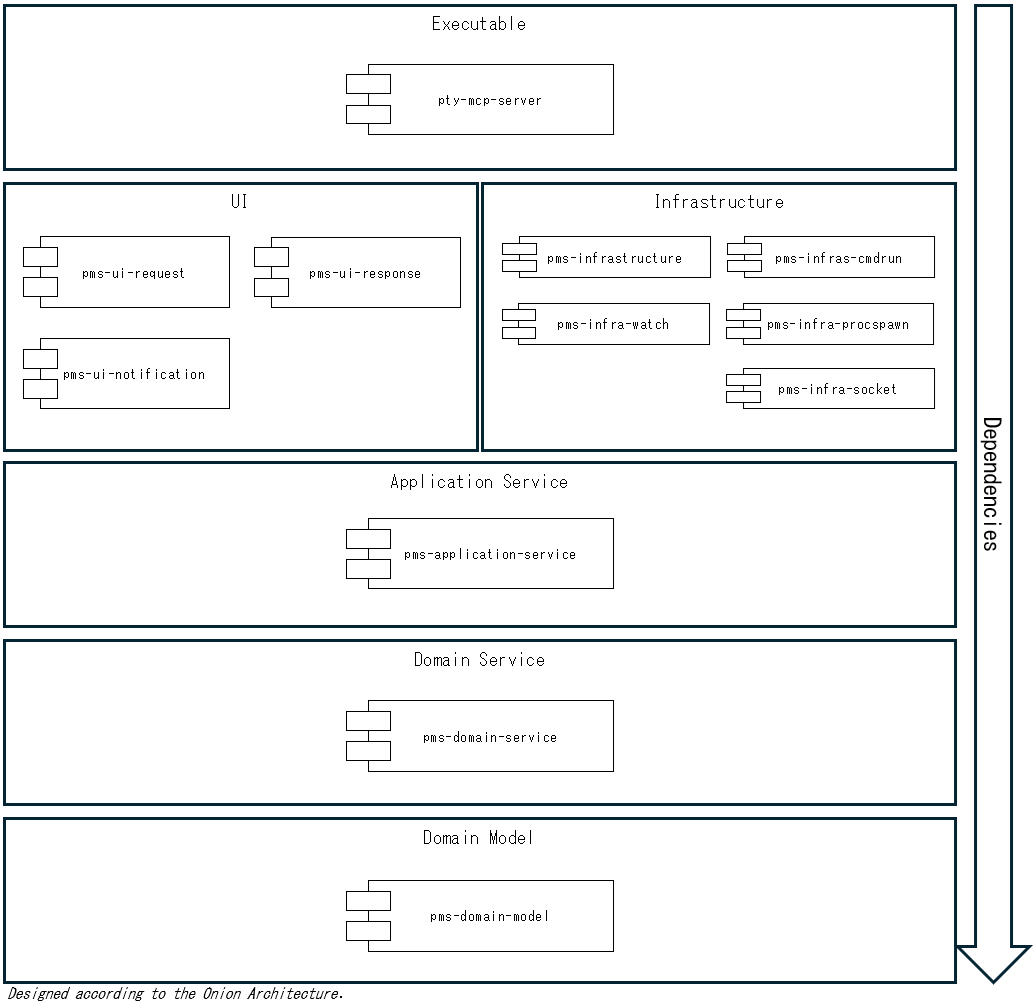
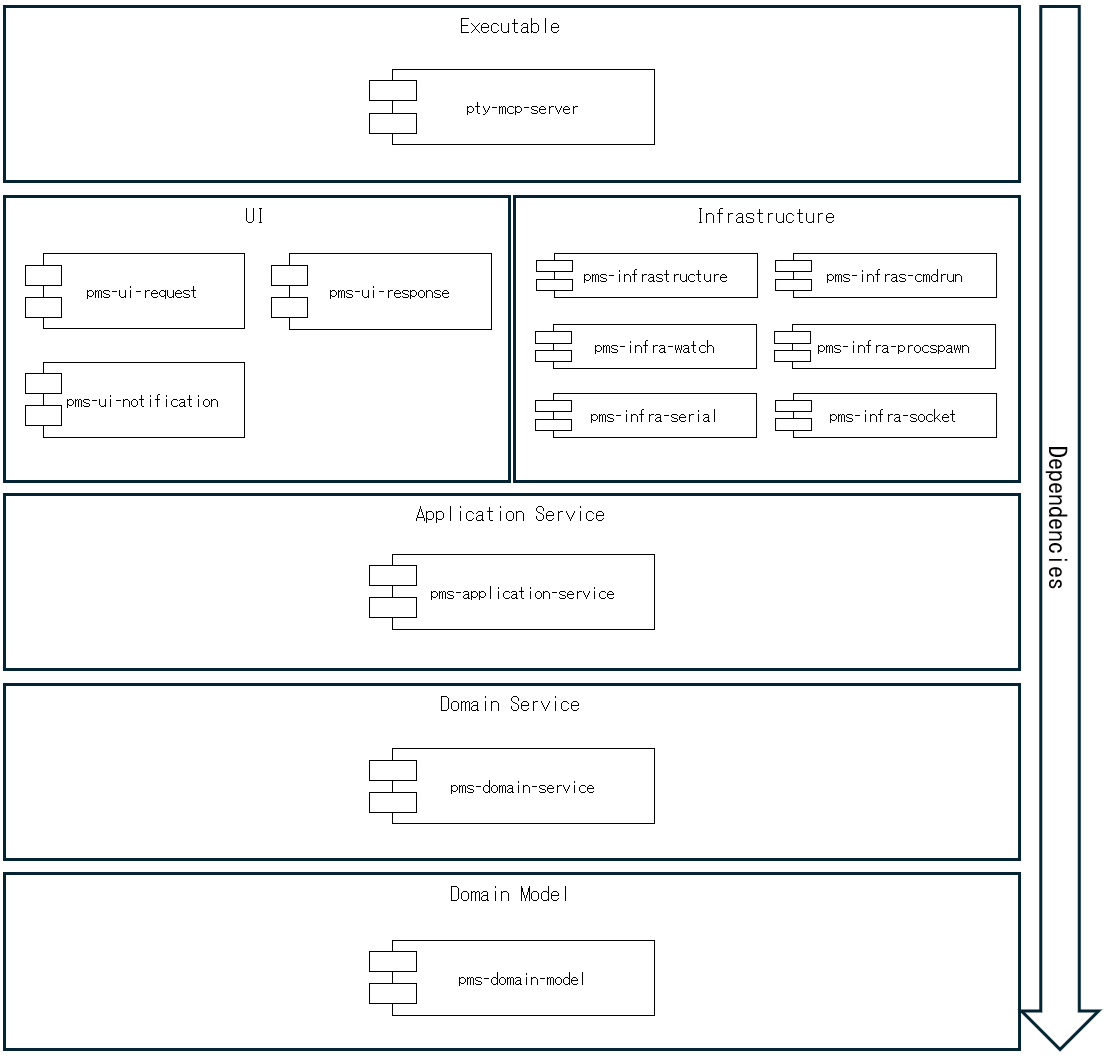
added serial tool.

diff --git a/README.md b/README.md
@@ -117,6 +117,23 @@ The server communicates exclusively via **standard input/output (stdio)**, ensur
 - **`socket-telnet`**  
   A simple Telnet-like communication tool over raw TCP sockets. This tool connects to a specified host and port, sends and receives data, and removes any Telnet IAC (Interpret As Command) sequences from the communication stream. Note: This is a simplified Telnet implementation and does not support full Telnet protocol features.
 
+
+- **`serial-open`**  
+  Opens a serial port connection to a specified device with a given baud rate. Commonly used to access on-premises hardware or network devices via console.
+
+- **`serial-close`**  
+  This tool close active serial connection that was previously established using the 'serial-open' tool.
+
+- **`serial-read`**  
+  Reads the specified number of bytes from the serial. The 'size' parameter indicates how many bytes to read.
+
+- **`serial-write`**  
+  Write a sequence of bytes to the serial.
+
+- **`serial-message`**  
+  This tool sends a specified string to the active socket connection, then waits for a recognizable prompt from the remote side. Upon detecting the prompt, it captures and returns all output received prior to it.
+
+
 - **`Scriptable CLI Integration`**  
   The `pty-mcp-server` supports execution of shell scripts associated with registered tools defined in `tools-list.json`. Each tool must be registered by name, and a corresponding shell script (`.sh`) should exist in the configured `tools/` directory.
 
@@ -262,38 +279,63 @@ Ref : [socket-telnet-prompt](https://github.com/phoityne/pty-mcp-server/blob/mai
 
 This video demonstrates a Telnet login sequence powered by the MCP prompt defined in [socket-telnet-prompt.md](https://github.com/phoityne/pty-mcp-server/blob/main/assets/prompts/socket-telnet-prompt.md). Using tools like `socket-open`, `socket-read`, `socket-write`, and `socket-message`, the AI performs Telnet negotiation, handles prompts, and submits credentials. Binary responses are parsed and displayed in human-readable form.
 
+### Network Device Version Check via Serial Connection — powered by pty-mcp-server.
+![Demo serial](https://raw.githubusercontent.com/phoityne/pty-mcp-server/main/docs/demo_serial.gif)  
+Ref : [serial-nw-check-prompt](https://github.com/phoityne/pty-mcp-server/blob/main/assets/prompts/serial-nw-check-prompt.md)
+
+This video demonstrates how `pty-mcp-server` enables AI-assisted automation over a serial connection to a network device.
+
+1. Device Setup
+The user specifies the communication port and baud rate.  
+**Example:** `COM3`, 9600 baud on Windows.
+
+2. Login Interaction
+The AI prompts for a username and password,  
+and uses them to log in to the network device.
+
+3. Device Version Retrieval
+After logging in, the AI sends a command  
+to retrieve the installed OS or firmware version.
+
+4. Online Version Check
+The AI accesses the official website to check the latest available version,  
+and compares it with the installed version.
+
+5. Session Termination
+Once the check is complete, the AI logs out and cleanly closes the serial connection.
+
 
 ### Demo: Watch AI Create and Launch a Web App from Scratch
 ![Demo web service construct](https://raw.githubusercontent.com/phoityne/pty-mcp-server/main/docs/demo_web.gif)  
 Ref : [Web Service Construction Agent Prompt](https://github.com/phoityne/pty-mcp-server/blob/main/assets/prompts/web-service-prompt.md)
 
 
-1. 📌 [Scene 1: Overview & MCP Configuration]  
+1. [Scene 1: Overview & MCP Configuration]  
 In this demo, we’ll show how an AI agent builds and runs a web service inside a Docker container using the `pty-mcp-server`.  
 First, we configure `mcp.json` to launch the MCP server using a shell script.  
 This script starts the Docker container where our PTY-based interaction will take place.
-2. 🐳 [Scene 2: Docker Launch Configuration]  
+2. [Scene 2: Docker Launch Configuration]  
 The `run.sh` script includes volume mounts, hostname settings, and opens **port 8080**.  
 This allows the container to expose a web service to the host system.
 
-3. 🚀 [Scene 3: Starting the MCP Server]  
+3. [Scene 3: Starting the MCP Server]  
 Now, the container is launched, and the `pty-mcp-server` is running inside it,  
 ready to handle AI-driven requests through a pseudo-terminal.
 
-4. 🤖 [Scene 4: Connecting the AI Agent]  
+4. [Scene 4: Connecting the AI Agent]  
 We open the chat interface and send a prompt designed for a web service builder agent.  
 The AI connects to the container’s Bash session via PTY and begins its preparation.
 
-5. 🛠 [Scene 5: Initial Setup Commands]  
+5. [Scene 5: Initial Setup Commands]  
 Following the prompt, the AI starts by:  
     - Creating a project folder  
     - Moving into the working directory
 
-6. 📥 [Scene 6: AI Ready to Receive Instructions]  
+6. [Scene 6: AI Ready to Receive Instructions]  
 Once the environment is ready, we instruct the AI to build a “Hello, world” web service.  
 From here, the AI begins its autonomous construction process.
 
-7. ⚙ [Scene 7: AI Executes Web Setup Commands]  
+7. [Scene 7: AI Executes Web Setup Commands]  
 The AI proposes a series of terminal commands.  
 As the user, we review and approve them one by one.  
 Steps include:
@@ -303,18 +345,17 @@ Steps include:
     - Running the Flask server
     - Testing via `curl http://localhost:8080` inside the container
 
-8. 🌐 [Scene 8: Verifying from Outside the Container]  
-To confirm external accessibility, we access the service from the host via **port 8080**.  
-✅ As expected, the response is: **“Hello, world”**
+8. [Scene 8: Verifying from Outside the Container]  
+To confirm external accessibility, we access the service from the host via **port 8080**.  As expected, the response is: **“Hello, world”**
 
-9. 🧾 [Scene 9: Reviewing the Execution History]  
+9. [Scene 9: Reviewing the Execution History]  
 Finally, we review the AI's actions step by step:
     - Initialized the Bash session and created the working directory  
     - Set up the Python environment  
     - Generated the Flask-based `app.py`  
     - Launched the web server and validated its operation
 
-10. 🏁 [Scene 10: Conclusion]  
+10. [Scene 10: Conclusion]  
 This demonstrates how AI, combined with the **PTY-MCP-Server** and **Docker**,  
 can automate real development tasks — **interactively**, **intelligently**, and **reproducibly**.
 

diff --git a/assets/prompts/serial-nw-check-prompt.md b/assets/prompts/serial-nw-check-prompt.md
@@ -1,0 +1,21 @@
+Your task is to check the FortiOS version on a Fortinet device connected via a serial interface. Specifically, you must:
+
+- Connect to the device using serial communication,  
+  following the target device’s default serial settings (e.g., baud rate),  
+  but you may ask the user for settings like baud rate if necessary.
+
+- Retrieve the current FortiOS version installed,  
+- Obtain the latest FortiOS version from the official Fortinet website (https://www.fortinet.com/products/fortigate/fortios),  
+- Compare the device's version with the latest available version,  
+- Report whether the device's FortiOS is up to date or requires an update.
+
+You must interact with the user step-by-step, requesting any necessary information **only when needed**, not all at once.
+
+---
+
+## Available Tools
+
+- **#serial-open**  
+- **#serial-message**  
+- **#serial-close**  
+
